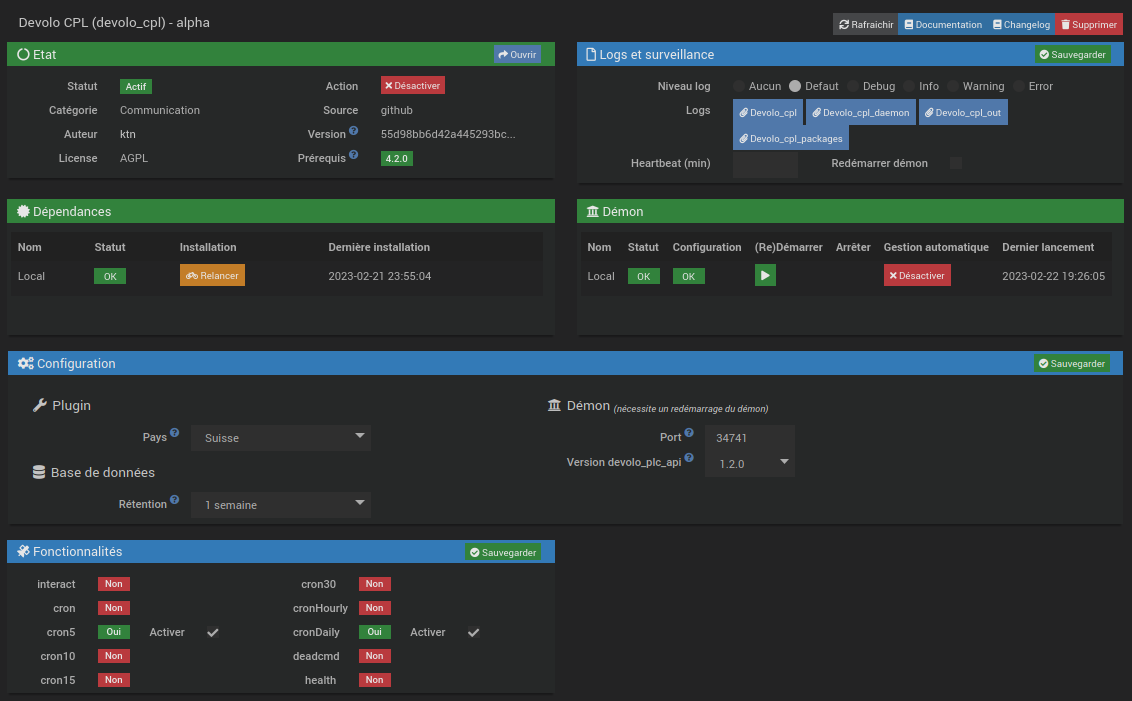
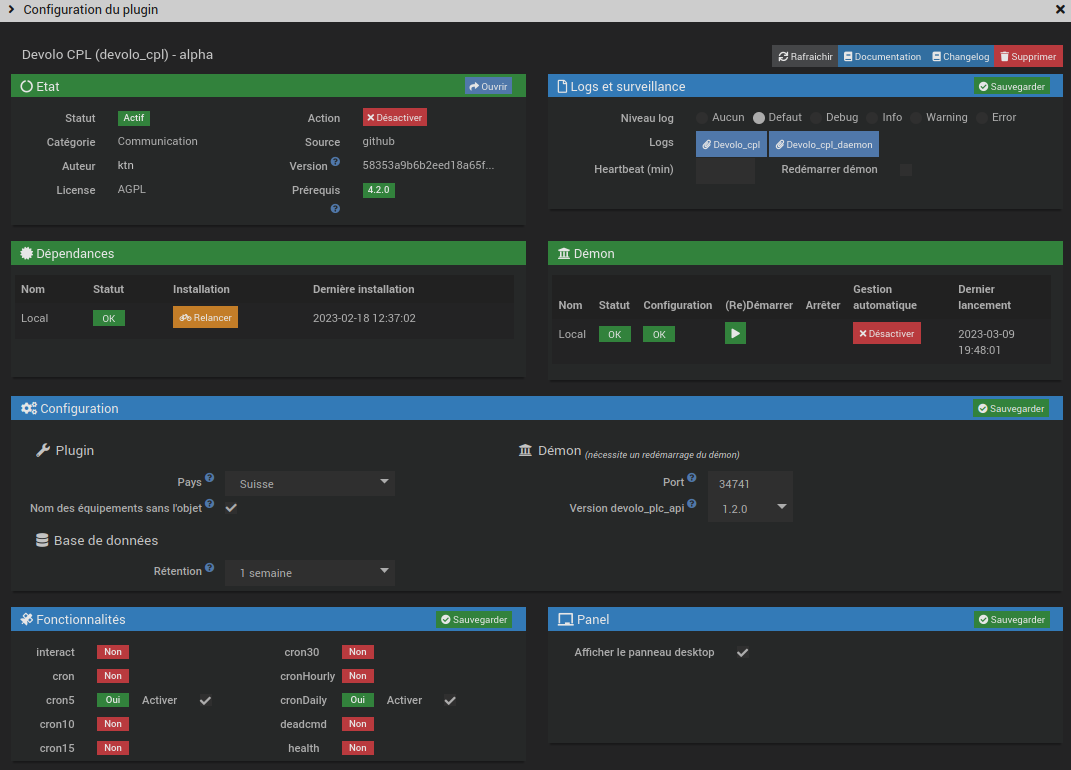
nouvelle version de devolo_cpl

Changed region(s): [[0.0, 0.0, 1.0, 0.689], [0.0, 0.5991, 1.0, 0.9886], [0.6779, 0.6291, 0.7087, 0.6591]]

diff --git a/fr_FR/devolo_cpl/index.md b/fr_FR/devolo_cpl/index.md
@@ -75,12 +75,16 @@ installé, il faut l'activer puis lancer l'installation des dépendances
     + ***Pays***
     : Le pays dans lequel de trouvent les équipement Devolo. Ce paramètre sert
       à sélectioner les images des appareils avec le bon type de prises.
+    + ***Nom des équipements sans l'objet***
+    : Si cette option est sélectionnée, les noms des équipement dans les tableaux
+      et graphiques ne seront pas affichés sous la forme `[<objet>][<équipement>]`mais
+      `<équipement>`.
 
 **Base de données**
 : Configuration de la gestion des données:
     + ***Rétention***
     : Durée pendant laquelle les informations des débits CPL sont conservées en base
-      de données
+      de données.
 
 **Démon**
 : Configuration du démon:
@@ -190,30 +194,32 @@ la commande refresh est activée.
 
 + La commande action `locate_on` active la localisation de l'appareil en faisant
   clignoter drant deux minutes la led CPL de l'appareil.
-+ La commande action `locate_off` désactive la localisation avant l'expiration des
-  deux minutes.
++ La commande action `locate_off` désactive la localisation avant l'expiration
+  des deux minutes.
 + Les appareils ne retournent pas d'information indiquant si la lacalisation est
   active ou pas. L'info `locate` doit donc émuler l'état de l'appareil:
     + L'info est mis à 1 lors de l'activation par `locate_on`.
     + L'info repasse automatiquement à 0 après 2 minutes.
-    + L'info est mise à 0 avant l'expiration des deux minutes si la commande `locate_off`
-      est activée.
+    + L'info est mise à 0 avant l'expiration des deux minutes si la commande
+      `locate_off` est activée.
     + L'état de l'info n'est pas modifié si la localisation est activée ou
-      désactivée par un autre logiciel que le plugin (par Devolo cockpit par exemple).
+      désactivée par un autre logiciel que le plugin (par Devolo cockpit par
+      exemple).
 
 ### Les versions de firmware
 {: .num}
 
-+ La commande info `firmware` indique la version du firmware installé dans l'appareil.
-+ La commande info `update_available` indique si une mise à jour du firmware est
-  disponible.
-+ La commande info `next_firmware` indique la version disponible pour un upgrade. Cette
-  info et vide si l'appareil est à jour.
++ La commande info `firmware` indique la version du firmware installé dans
+  l'appareil.
++ La commande info `update_available` indique si une mise à jour du firmware
+  est disponible.
++ La commande info `next_firmware` indique la version disponible pour un upgrade.
+  Cette info et vide si l'appareil est à jour.
 
 > :bulb: Mes appareils étant tous à jour, je n'ai pas encore pu tester correctement
-  les commandes `update_available` et `next_firmware`. Tous retour d'expérience via
-  le [forum](https://community.jeedom.com) (ne pas oubler l'étiquette `plugin-devolo_cpl`)
-  sera le bienvenu.
+  les commandes `update_available` et `next_firmware`. Tous retour d'expérience
+  via le [forum](https://community.jeedom.com) (ne pas oublier l'étiquette
+  `plugin-devolo_cpl`) sera le bienvenu.
 
 # Les débits CPL
 {: .num}
@@ -227,18 +233,46 @@ Un click sur l'icône `Réseaux CPL` ouvre un modal de présentation des débits
 ## Les réseaux
 {: .num}
 
-Si vous avez configuré différent noms de réseau dans le paramétrage des équipements,
-le modal contiendra un tab pour chacun de ces réseaux. Ceci permet, par exempée, d'
-avoir un tableau pour les débit entre des équipements DLan et un autre pour les
-équipements Magic.
+Si vous avez configuré différents noms de réseauix dans le paramétrage des
+équipements, le modal contiendra un tab pour chacun de ces réseaux. Ceci permet,
+par exemple, d' avoir un tableau pour les débits entre des équipements DLan et
+un autre pour les équipements Magic.
 
 ## Les débits
 {: .num}
 
-Les lignes du tableau représente les appareils source et les colonnes, les detinations.
+Les lignes du tableau représenteint les appareils source et les colonnes, les
+destinations.
 
-Dans l'image ci-dessus, nous avons donc un flux 833 Mbps de *cplphil* vers *cplbureau*
-et de 850 Mbps dans le senrsc inverse.
+Dans l'image ci-dessus, nous avons donc un flux 833 Mbps de *cplphil* verss
+*cplbureau* et de 850 Mbps dans le senrsc inverse.
 
-Les débits sont relevés toutes le 5 minutes. L'heure en bas à droite du modal indique
-l'heure à laquelle les débits affichés ont été relevés.
+Les débits sont relevés toutes les 5 minutes. L'heure affichée en bas à droites
+du modal indique l'heure à laquelle les débits affichés ont été relevés.
+
+# Le panel
+{: .num}
+
+Le panel est accessible via le menu **Accueil**
+
+![Menu accueil](/images/devolo_cpl/menu_accueil.png)
+
+Le panel ne contient qu'un seul *tab* nommé `Débits CPL` (d'autres *tabs*
+viendront plus tard)
+
+## Débit CPL
+{: .num}
+
+A son ouverture, le tab présente un graphique de l'historique des débits entre
+deux appareils.
+
+![panel Débits CPL](/images/devolo_cpl/panel_debits_CPL.png)
+
+Il est possible:
++ D'ajouter u graphique via le bouton `Ajouter un graphique`
++ De changer la source et la destination via les sélecteur `de` et `vers`
+  puis en cliquant sur le bouton `OK`.
+
+Je vous laiss découvrir les autres fonctionalités du graphique.
+
+

diff --git a/fr_FR/devolo_cpl/changelog.md b/fr_FR/devolo_cpl/changelog.md
@@ -5,6 +5,20 @@ title : devolo_cpl
 
 # Release notes
 
+### 2023/03/09 beta
++ Nouveau pluginlevel: 7.
+  + Activation du panel
+ 
++ Configuration du plugin
+  + Une nouvelle option permet de définir si l'affichage des noms des équipements
+    dans les tableaux et graphiques doivent être affichés avec ou sans les noms d'objets:
+     + `[<nom_objet>][<nom_équipement>]`
+     + `<nom_équipement>`
+  + Le plugin contient maintenant un *panel*. Ce *panel* peut être activé ou désactivé
+    sur la page de configuration du plugin.
+  + Interface
+    + Nouveau *panel* pour l'affichage de graphiques des débits entre les équipements CPL.
+
 ### 2023/03/04 beta
 + Nouveau pluginlevel: 6.
   + Tris des commandes des équipements existants.
